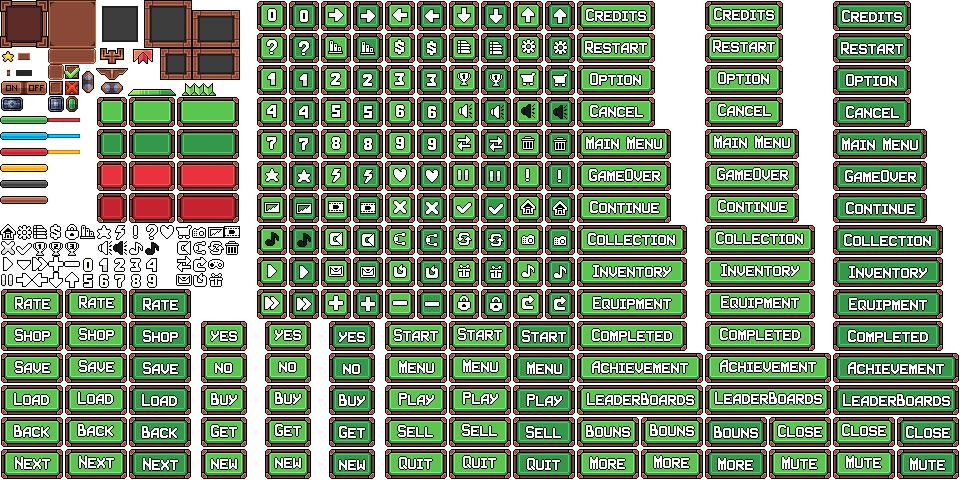
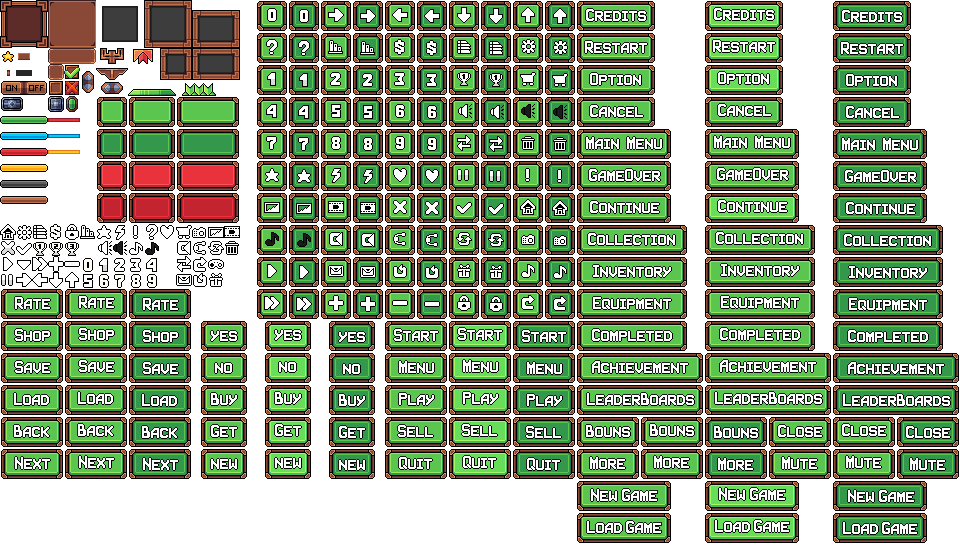
[Feat]: add test MainMenu

diff --git a/demo/MainMenu.cpp b/demo/MainMenu.cpp
@@ -5,78 +5,126 @@
 #include "IconButton.h"
 namespace Demo
 {
+	void MainMenu::UpdateLayout(int screenW, int screenH)
+	{
+		camera.SetPosition(screenW / 2.0f, screenH / 2.0f);
+
+		//BACKGROUND - use aspect fill
+		float bgImageW = (float)bgTex->GetWidth();
+		float bgImageH = (float)bgTex->GetHeight();
+
+		if (!bgSprite)
+		{
+			bgSprite = std::make_shared<DX9GF::StaticSprite>(bgTex.get());
+			bgSprite->SetSrcRect({ 0, 0, (LONG)bgImageW, (LONG)bgImageH });
+		}
+
+		float bgScaleX = screenW / bgImageW;
+		float bgScaleY = screenH / bgImageH;
+		float bgFinalScale = std::max(bgScaleX, bgScaleY);
+
+		bgSprite->SetScale(bgFinalScale);
+		bgSprite->SetOrigin(bgImageW / 2.0f, bgImageH / 2.0f);
+		bgSprite->SetPosition(screenW / 2.0f, screenH / 2.0f);
+
+		//TITLE - use scale to fit (have a limit)
+		float titleImageW = (float)titleTex->GetWidth();
+		float titleImageH = (float)titleTex->GetHeight();
+
+		if (!titleSprite) {
+			titleSprite = std::make_shared<DX9GF::StaticSprite>(titleTex.get());
+			titleSprite->SetSrcRect({ 0, 0, (LONG)titleImageW, (LONG)titleImageH });
+		}
+
+		float maxTitleWidth = screenW * 0.5f;
+		float titleScale = maxTitleWidth / titleImageW;
+		float maxTitleHeight = screenH * 0.4f;
+
+		if ((titleImageH * titleScale) > maxTitleHeight) {
+			titleScale = maxTitleHeight / titleImageH;
+		}
+
+		titleSprite->SetScale(titleScale);
+		titleSprite->SetOrigin(titleImageW / 2.0f, titleImageH / 2.0f);
+		titleSprite->SetPosition(screenW / 2.0f, screenH * 0.3f);
+
+		//BUTTONS: use anchor center
+		//find center location
+		float centerX = screenW / 2.0f;
+		float centerY = screenH / 2.0f;
+		//spacing between buttons
+		float spacingY = 10.0f;
+		//start drawing from 40% of the screen height
+		float startY = screenH * 0.40f;
+
+		std::shared_ptr<Demo::IButton> buttons[] = { continueButton, newGameButton, loadGameButton, optionButton, creditButton, quitButton };
+		float currentY = startY;
+
+		for (auto& btn : buttons)
+		{
+			if (btn)
+			{
+				//center X
+				float posX = centerX - (btn->GetWidth() / 2.0f);
+				btn->SetPosition(posX, currentY);
+
+				//button spacing
+				currentY += btn->GetHeight() + spacingY;
+			}
+		}
+
+	}
+
 	void MainMenu::Init()
 	{
-		// 1. Khởi tạo TransformManager (nếu hệ thống của bạn yêu cầu)
 		transformManager = std::make_shared<DX9GF::TransformManager>();
 
-		// 2. Load Texture Sheet cho toàn bộ UI
-		// Giả sử hệ thống của bạn có hàm LoadTexture tĩnh hoặc thông qua Game object
-		uiSheetTex = std::make_shared<DX9GF::Texture>(game->GetGraphicsDevice());
-		uiSheetTex->LoadTexture(L"ui-pack.png");
+		auto app = DX9GF::Application::GetInstance();
+		lastScreenWidth = app->GetScreenWidth();
+		lastScreenHeight = app->GetScreenHeight();
 
-		// 3. Khởi tạo Background và Title
-		// Truyền ID hoặc đường dẫn texture tùy vào thiết kế constructor của StaticSprite
-		backgroundTex = std::make_shared<DX9GF::Texture>(game->GetGraphicsDevice());
+		//load textures
+		buttonSheetTex = std::make_shared<DX9GF::Texture>(game->GetGraphicsDevice());
+		buttonSheetTex->LoadTexture(L"ui-pack.png");
+
+		bgTex = std::make_shared<DX9GF::Texture>(game->GetGraphicsDevice());
+		bgTex->LoadTexture(IDB_PNG2);
+
 		titleTex = std::make_shared<DX9GF::Texture>(game->GetGraphicsDevice());
-
-		backgroundTex->LoadTexture(IDB_PNG2);
 		titleTex->LoadTexture(IDB_PNG3);
 
-		backgroundSprite = std::make_shared<DX9GF::StaticSprite>(backgroundTex.get());
+		//buttons init
+		continueButton = std::make_shared<Demo::IconButton>(transformManager, 0, 0, 94, 30,
+			buttonSheetTex, 577, 193, 94, 30, 34, [](DX9GF::ITrigger* t) { /* Logic */ });
 
-		RECT bgRect;
-		bgRect.left = 0;
-		bgRect.top = 0;
-		bgRect.right = backgroundTex->GetWidth();  // Thay bằng chiều rộng thực tế của ảnh nền
-		bgRect.bottom = backgroundTex->GetHeight(); // Thay bằng chiều cao thực tế của ảnh nền
-		backgroundSprite->SetSrcRect(bgRect);
-		backgroundSprite->SetScale(1.0f); // Bắt buộc để ảnh không bị thu nhỏ về 0
-		backgroundSprite->SetPosition(-400, -400); // Đặt tại góc trái trên
+		newGameButton = std::make_shared<Demo::IconButton>(transformManager, 0, 0, 94, 30,
+			buttonSheetTex, 577, 481, 94, 30, 34, [](DX9GF::ITrigger* t) { /* Logic */ });
 
-		titleSprite = std::make_shared<DX9GF::StaticSprite>(titleTex.get());
+		loadGameButton = std::make_shared<Demo::IconButton>(transformManager, 0, 0, 94, 30,
+			buttonSheetTex, 577, 513, 94, 30, 34, [](DX9GF::ITrigger* t) { /* Logic */ });
 
+		optionButton = std::make_shared<Demo::IconButton>(transformManager, 0, 0, 78, 30,
+			buttonSheetTex, 577, 65, 78, 30, 50, [](DX9GF::ITrigger* t) { /* Logic */ });
 
-		//RECT titleRect;
-		//titleRect.left = 0;
-		//titleRect.top = 0;
-		//titleRect.right = 400; // Chiều rộng của logo
-		//titleRect.bottom = 150; // Chiều cao của logo
-		//titleSprite->SetSrcRect(titleRect);
-		titleSprite->SetScale(0.5f); // Bắt buộc để ảnh không bị thu nhỏ về 0
-		// Đặt title ở vị trí nào đó (ví dụ x=100, y=50)
-		titleSprite->SetPosition(-400, -300);
+		creditButton = std::make_shared<Demo::IconButton>(transformManager, 0, 0, 78, 30,
+			buttonSheetTex, 577, 1, 78, 30, 50, [](DX9GF::ITrigger* t) { /* Logic */ });
 
-		backgroundSprite->Begin();
-		auto quitBtn = std::make_shared<Demo::IconButton
-		>(
-			transformManager,
-			200, 200, 62, 30, //x,y,w,h display
-			uiSheetTex,
-			385, 449, 62, 30, 2, //startX, startY, w, h, spacing
-			[](DX9GF::ITrigger* t)
+		quitButton = std::make_shared<Demo::IconButton>(transformManager, 0, 0, 62, 30,
+			buttonSheetTex, 385, 449, 62, 30, 2, [](DX9GF::ITrigger* t) { PostQuitMessage(0); });
+
+		//active buttons
+		std::shared_ptr<Demo::IButton> buttons[] = { continueButton, newGameButton, loadGameButton, optionButton, creditButton, quitButton };
+		for (auto& btn : buttons)
+		{
+			if (btn)
 			{
-				PostQuitMessage(0); //set button's logic here
+				btn->Init(&camera);
+				uiButtons.push_back(btn);
 			}
-		);
-		quitBtn->Init(&camera);
-		uiButtons.push_back(quitBtn);
+		}
 
-		auto continueBtn = std::make_shared<Demo::IconButton>(
-			transformManager,
-			150, 150, 94, 30,
-			uiSheetTex,
-			577, 193, 94, 30, 34,
-			[](DX9GF::ITrigger* t)
-			{
-				//switch scene(?)
-			}
-		);
-		continueBtn->Init(&camera);
-		uiButtons.push_back(continueBtn);
-
-		//test function
-		//continueBtn->ChangeSpriteCoords(500, 2, 60, 32, 20);
+		//call it to setup the update layout
+		UpdateLayout(lastScreenWidth, lastScreenHeight);
 
 		transformManager->RebuildHierarchy();
 	}
@@ -86,6 +134,18 @@ namespace Demo
 		auto inpMan = DX9GF::InputManager::GetInstance();
 		inpMan->ReadMouse(deltaTime);
 		inpMan->ReadKeyboard(deltaTime);
+
+		auto app = DX9GF::Application::GetInstance();
+		int currentWidth = app->GetScreenWidth();
+		int currentHeight = app->GetScreenHeight();
+
+		//check the size and update if there is a change
+		if (currentWidth != lastScreenWidth || currentHeight != lastScreenHeight)
+		{
+			UpdateLayout(currentWidth, currentHeight);
+			lastScreenWidth = currentWidth;
+			lastScreenHeight = currentHeight;
+		}
 
 		for (auto& button : uiButtons)
 		{
@@ -101,24 +161,20 @@ namespace Demo
 		auto gd = game->GetGraphicsDevice();
 		gd->Clear();
 		if (SUCCEEDED(gd->BeginDraw())) {
-			// THỨ TỰ VẼ TỪ DƯỚI LÊN TRÊN
-
-			if (backgroundSprite)
+			if (bgSprite)
 			{
-				backgroundSprite->Begin(); // BẮT BUỘC PHẢI CÓ
-				backgroundSprite->Draw(camera, deltaTime);
-				backgroundSprite->End();   // BẮT BUỘC PHẢI CÓ
+				bgSprite->Begin();
+				bgSprite->Draw(camera, deltaTime);
+				bgSprite->End();
 			}
 
-			// 2. Vẽ Tiêu đề / Logo
 			if (titleSprite)
 			{
-				titleSprite->Begin(); // BẮT BUỘC PHẢI CÓ
+				titleSprite->Begin();
 				titleSprite->Draw(camera, deltaTime);
-				titleSprite->End();   // BẮT BUỘC PHẢI CÓ
+				titleSprite->End();
 			}
 
-			// 3. Vẽ toàn bộ UI Buttons lên trên cùng
 			for (auto& btn : uiButtons)
 			{
 				btn->Draw(&this->camera, gd, deltaTime);

diff --git a/demo/MainMenu.h b/demo/MainMenu.h
@@ -1,30 +1,41 @@
 #pragma once
 #include "DX9GF.h"
+#include "DX9GFExtras.h"
 #include "DX9GFIScene.h"
 #include "Game.h"
-#include "IButton.h"
-#include "DX9GFExtras.h"
-#include <vector>
-#include <memory>
+#include "TextButton.h"
+#include "IconButton.h"
+
 namespace Demo
 {
 	class MainMenu : public DX9GF::IScene
 	{
 	private:
 		Game* game;
-
 		std::shared_ptr<DX9GF::TransformManager> transformManager;
-		std::shared_ptr<DX9GF::StaticSprite> backgroundSprite;
-		std::shared_ptr<DX9GF::StaticSprite> titleSprite;
 
-		std::shared_ptr<DX9GF::Texture> backgroundTex;
+		std::shared_ptr<DX9GF::StaticSprite> bgSprite;
+		std::shared_ptr<DX9GF::StaticSprite> titleSprite;
+		std::shared_ptr<DX9GF::Texture> bgTex;
 		std::shared_ptr<DX9GF::Texture> titleTex;
 
-		//UI component
-		std::vector<std::shared_ptr<IButton>> uiButtons;
-		std::shared_ptr<DX9GF::Texture> uiSheetTex;
-		//std::shared_ptr<DX9GF::Font> myFont;
+		//button component
+		std::shared_ptr<DX9GF::Font> font;
+		std::shared_ptr<DX9GF::Texture> buttonSheetTex;
+		std::vector<std::shared_ptr<Demo::IButton>> uiButtons;
 
+		//temporarily comment, only uncomment when needed. Ex: That button changes affect another component in the scene.
+
+		std::shared_ptr<IconButton> continueButton;
+		std::shared_ptr<IconButton> newGameButton;
+		std::shared_ptr<IconButton> loadGameButton;
+		std::shared_ptr<IconButton> optionButton;
+		std::shared_ptr<IconButton> creditButton;
+		std::shared_ptr<IconButton> quitButton;
+
+		//use to scale or relocate the sprite/object
+		int lastScreenWidth;
+		int lastScreenHeight;
 
 	public:
 
@@ -36,6 +47,8 @@ namespace Demo
 		void Init() override;
 		void Update(unsigned long long deltaTime) override;
 		void Draw(unsigned long long deltaTime) override;
+		void UpdateLayout(int width, int height);
+
 	};
 }
 

diff --git a/demo/IButton.h b/demo/IButton.h
@@ -13,15 +13,19 @@ namespace Demo
 		ButtonState currentState;
 		float width;
 		float height;
+		float displayX;
+		float displayY;
 		std::shared_ptr<DX9GF::RectangleTrigger> trigger;
 
 		std::function<void(DX9GF::ITrigger*)> callback;
 
 	public:
 
-		IButton(std::shared_ptr<DX9GF::TransformManager> tm, float x, float y, float w, float h)
-			: IGameObject(tm, x, y)
+		IButton(std::shared_ptr<DX9GF::TransformManager> tm, float displayX, float displayY, float w, float h)
+			: IGameObject(tm, displayX, displayY)
 		{
+			this->displayX = displayX;
+			this->displayY = displayY;
 			this->width = w;
 			this->height = h;
 			this->currentState = ButtonState::IDLE;
@@ -54,12 +58,23 @@ namespace Demo
 			this->trigger->Update(deltaTime);
 
 			//change button state
-			if (this->trigger->IsHeldLeft(deltaTime)) 
+			if (this->trigger->IsHeldLeft(deltaTime))
 				this->currentState = ButtonState::CLICKED;
-			else if (this->trigger->IsHovering(deltaTime)) 
+			else if (this->trigger->IsHovering(deltaTime))
 				this->currentState = ButtonState::HOVER;
-			else 
+			else
 				this->currentState = ButtonState::IDLE;
+		}
+
+		virtual void SetPosition(float x, float y)
+		{
+			this->displayX = x;
+			this->displayY = y;
+			this->SetLocalPosition(x, y); 
+			if (this->trigger!=nullptr) 
+			{
+				this->trigger->SetOrigin(0, 0);
+			}
 		}
 
 		std::shared_ptr<DX9GF::RectangleTrigger> GetTrigger() { return this->trigger; }

diff --git a/demo/IconButton.h b/demo/IconButton.h
@@ -12,11 +12,11 @@ namespace Demo
 		RECT buttonRects[3];
 	public:
 		IconButton(std::shared_ptr<DX9GF::TransformManager> tm,
-			float x, float y, float w, float h,
+			float displayX, float displayY, float w, float h,
 			std::shared_ptr<DX9GF::Texture> uiSheetTex, //contain button sheet
 			int startX, int startY, int imgW, int imgH, int spacing, //we need these 5 variables to calculate the button's coordinate
 			std::function<void(DX9GF::ITrigger*)> onClick)
-			: IButton(tm, x, y, w, h)
+			: IButton(tm, displayX, displayY, w, h)
 		{
 			if (uiSheetTex) {
 				this->sprite = std::make_shared<DX9GF::StaticSprite>(uiSheetTex.get());
@@ -36,6 +36,6 @@ namespace Demo
 		IconButton* ChangeSpriteCoords(int startX, int startY, int imgW, int imgH, int spacing);
 		void Init(DX9GF::Camera* cam) override;
 		void Draw(DX9GF::Camera* camera, DX9GF::GraphicsDevice* gd, unsigned long long deltaTime) override;
-		
+
 	};
 }

diff --git a/demo/IconButton.cpp b/demo/IconButton.cpp
@@ -35,11 +35,10 @@ void Demo::IconButton::Draw(DX9GF::Camera* camera, DX9GF::GraphicsDevice* gd, un
 
 	if (this->sprite && camera)
 	{
-		this->sprite->SetPosition(this->GetWorldX(), this->GetWorldY());
-
 		this->sprite->SetSrcRect(this->buttonRects[stateIndex]);
 
 		this->sprite->Begin();
+		this->sprite->SetPosition(this->displayX, this->displayY);
 		this->sprite->Draw(*camera, deltaTime);
 		this->sprite->End();
 	}
